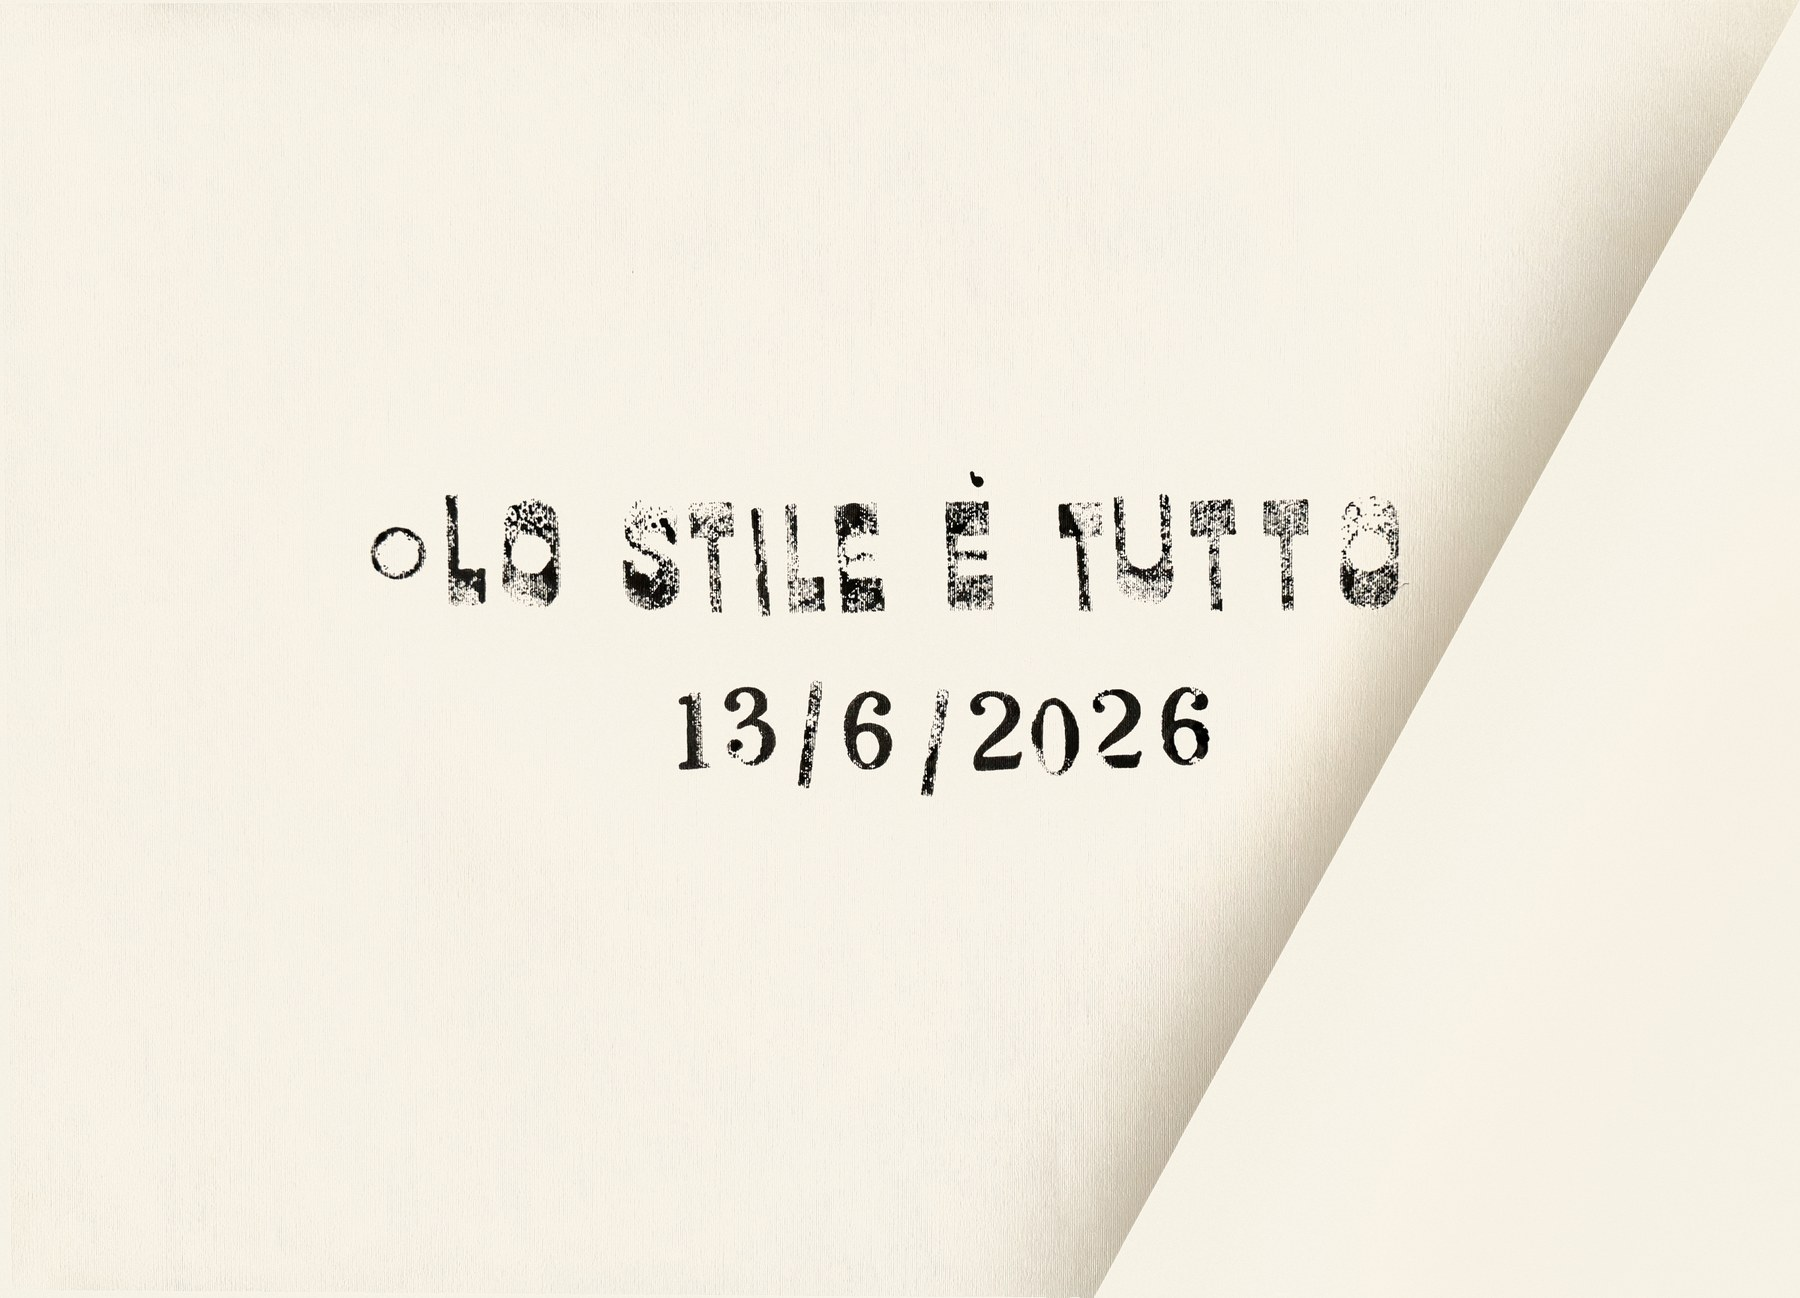
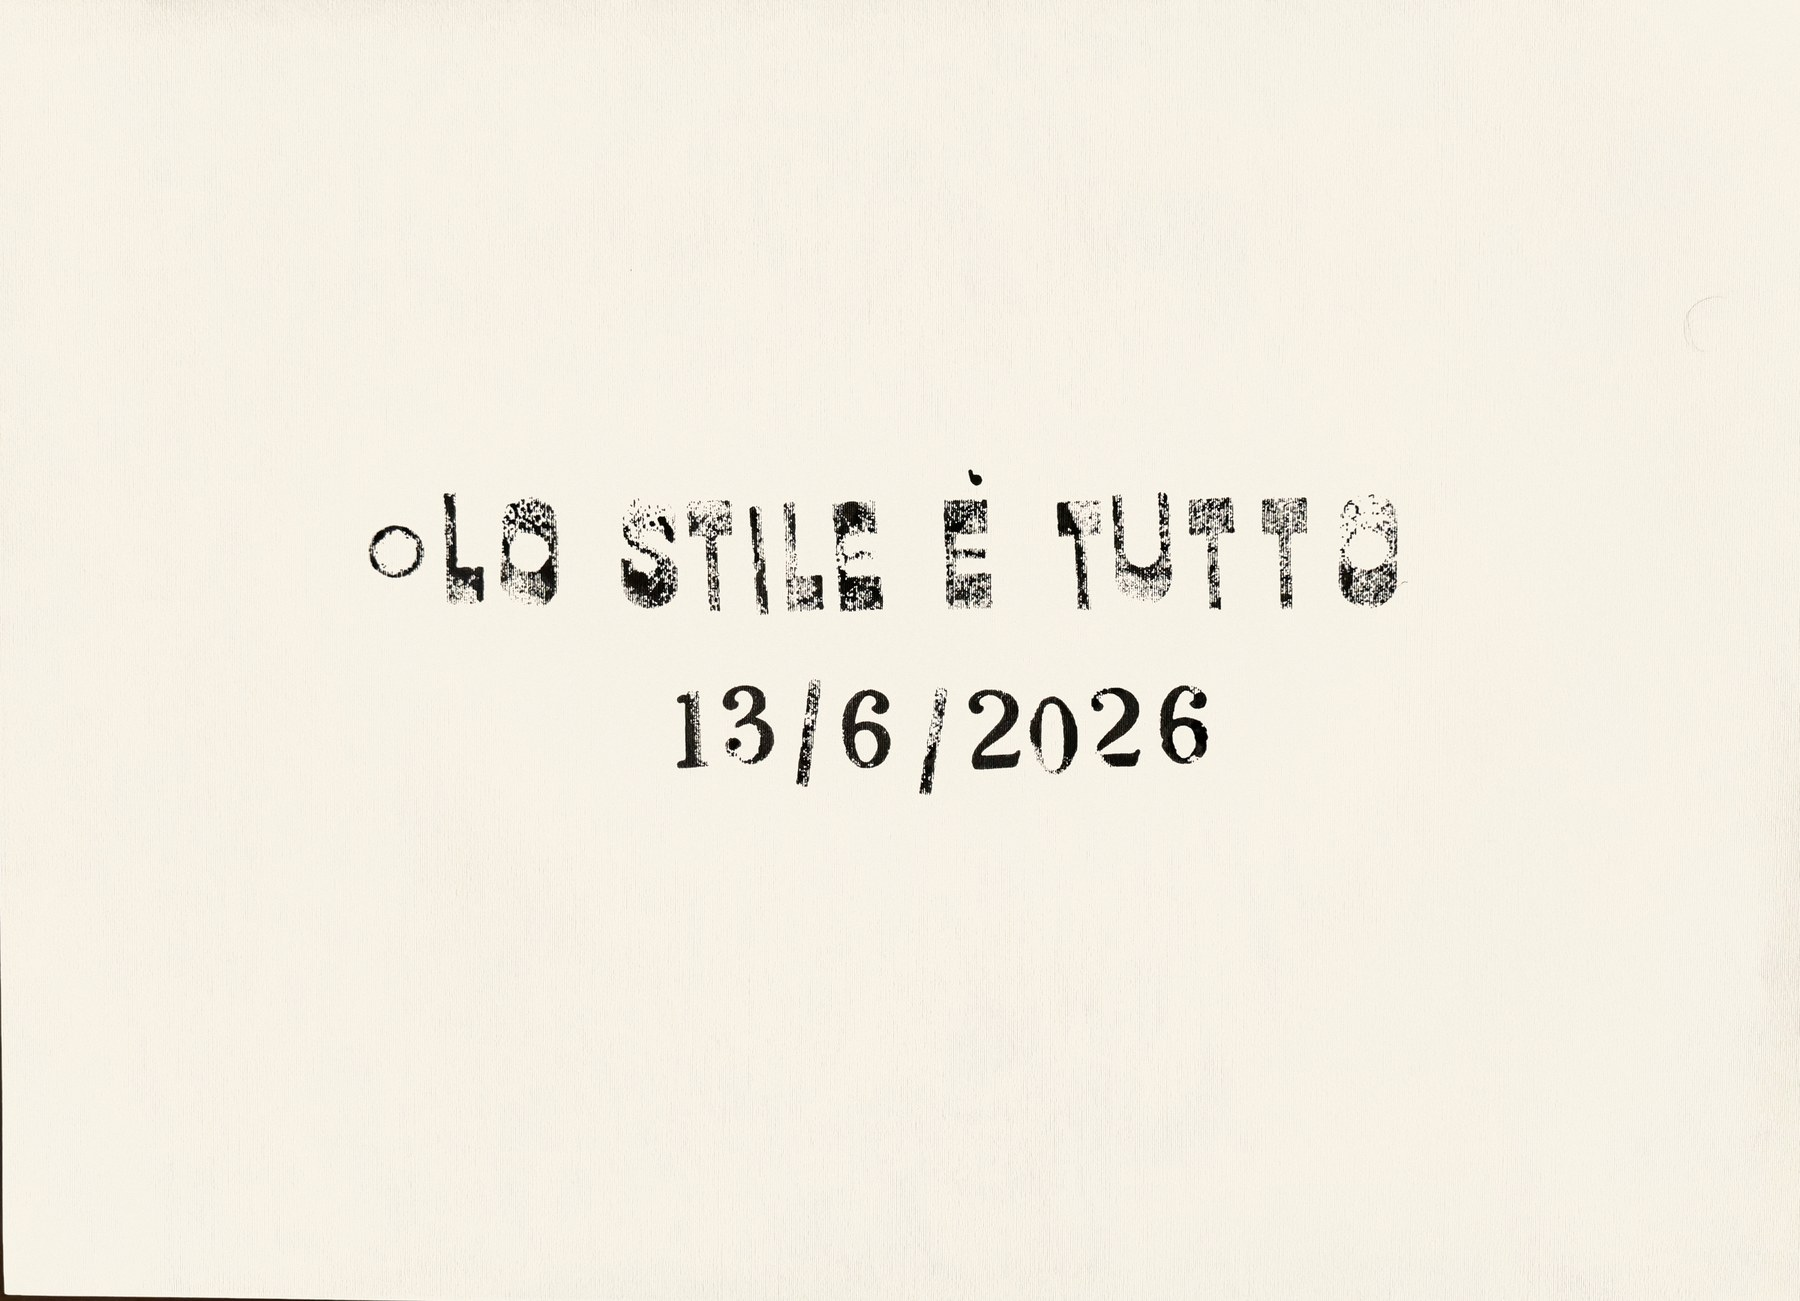
fix: 13/6 e 14/6 - bordi puliti, lettere integre

diff --git a/index.html b/index.html
@@ -662,21 +662,21 @@ section#timbri{ padding-top: clamp(160px, 18vw, 240px); }
 <section class="page" id="timbri">
   <div class="gallery" id="gallery">
     <figure class="work">
-      <div class="work-frame" style="--ratio: 80.11%;">
+      <div class="work-frame" style="--ratio: 62.39%;">
         <img src="foto_definitive/Timbro_2026-06-14.jpg"
              srcset="foto_definitive/thumbs/Timbro_2026-06-14.jpg 800w, foto_definitive/Timbro_2026-06-14.jpg 1800w"
              sizes="(max-width: 720px) 92vw, 720px"
-             width="1800" height="1442"
+             width="1800" height="1123"
              alt="14/6/26" loading="lazy" decoding="async" />
       </div>
       <figcaption class="work-caption"><span class="work-date">14/6/26</span></figcaption>
     </figure>
     <figure class="work">
-      <div class="work-frame" style="--ratio: 72.11%;">
+      <div class="work-frame" style="--ratio: 72.28%;">
         <img src="foto_definitive/Timbro_2026-06-13.jpg"
              srcset="foto_definitive/thumbs/Timbro_2026-06-13.jpg 800w, foto_definitive/Timbro_2026-06-13.jpg 1800w"
              sizes="(max-width: 720px) 92vw, 720px"
-             width="1800" height="1298"
+             width="1800" height="1301"
              alt="13/6/26" loading="lazy" decoding="async" />
       </div>
       <figcaption class="work-caption"><span class="work-date">13/6/26</span></figcaption>
